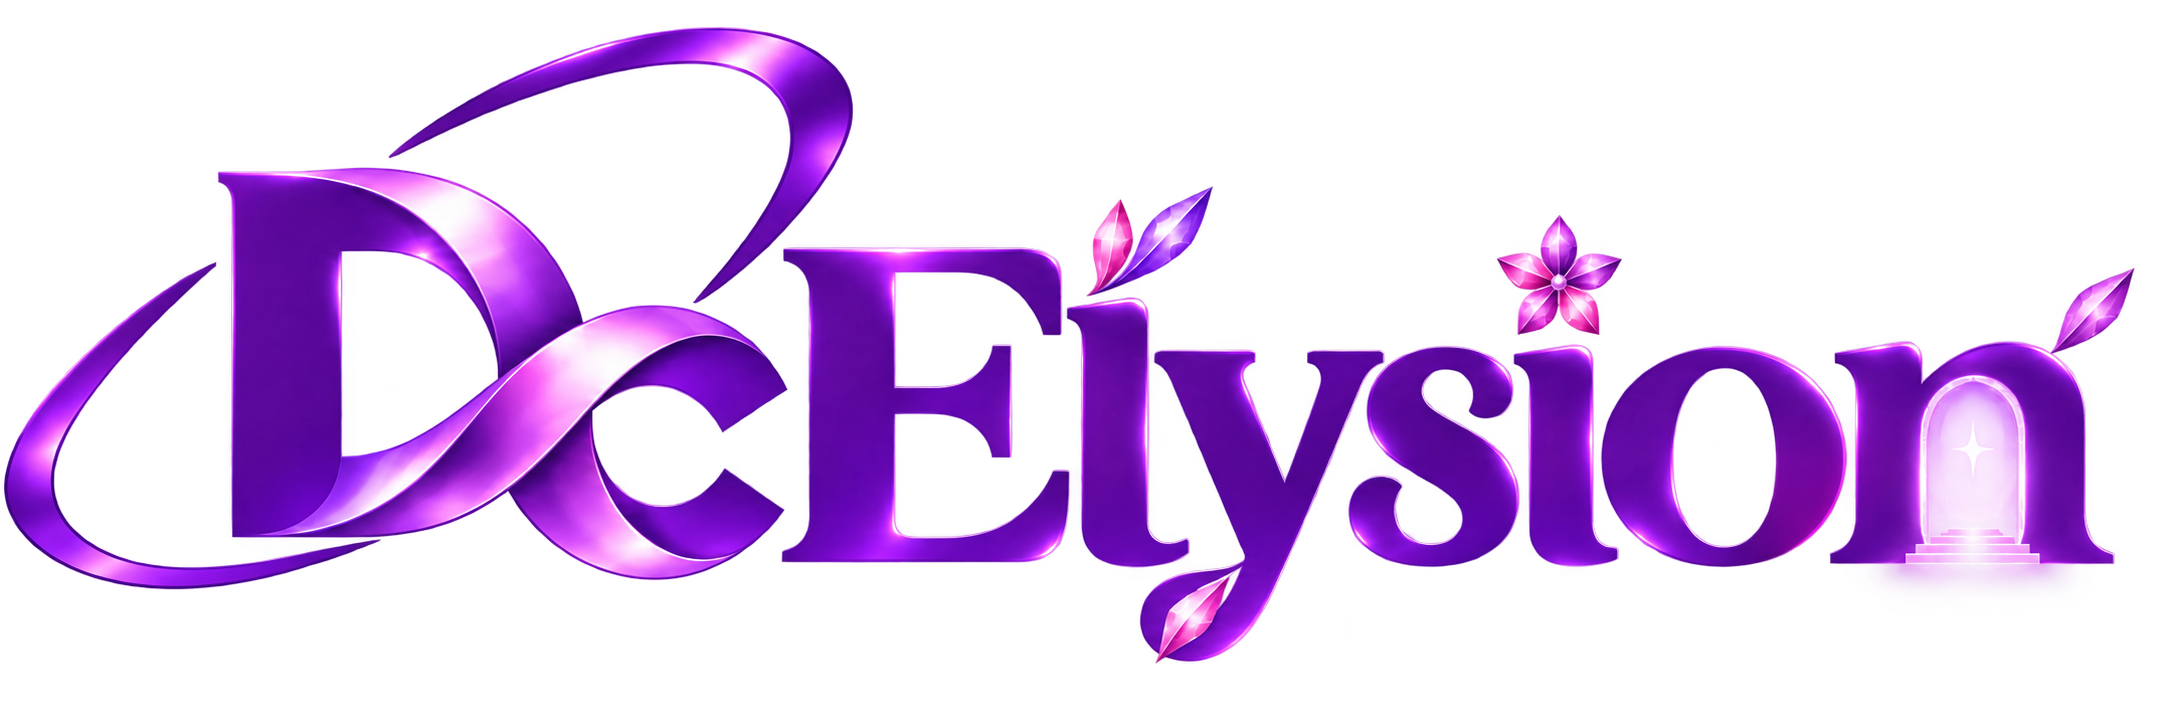
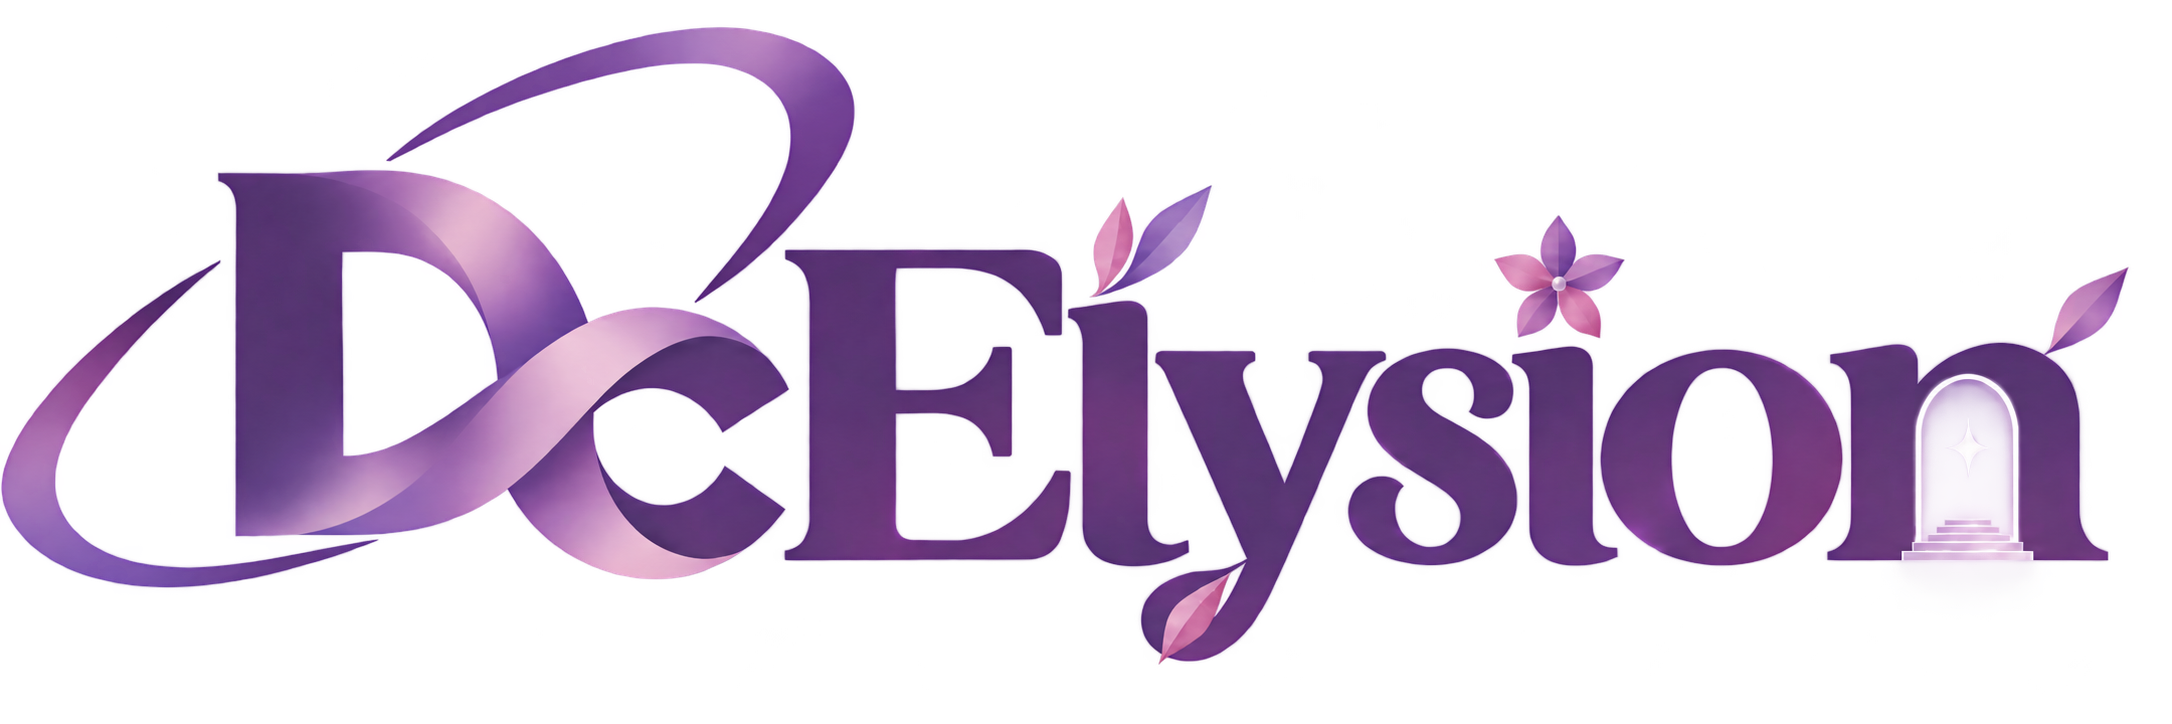
feat: 更新品牌字标与图标

Changed region(s): [[0.0, 0.0304, 0.9871, 0.9116]]

diff --git a/src/config/siteConfig.ts b/src/config/siteConfig.ts
@@ -88,12 +88,12 @@ export const siteConfig: SiteConfig = {
 	// 如果启用了OpenGraph图片功能，数组中需要包含png格式的favicon图标
 	favicon: [
 		{
-			src: "/favicon/dc-infinity-32.png",
+			src: "/favicon/dc-mark-v2-32.png",
 			sizes: "32x32",
 		},
 		{
 			// 图标文件路径
-			src: "/favicon/dc-infinity-64.png",
+			src: "/favicon/dc-mark-v2-64.png",
 			sizes: "64x64",
 			// 可选，指定主题 'light' | 'dark'
 			// theme: "light",
@@ -117,6 +117,7 @@ export const siteConfig: SiteConfig = {
 		logo: {
 			type: "image",
 			value: "/assets/brand/dcelysion-portal-v3.png",
+			valueDark: "/assets/brand/dcelysion-portal-v3-dark.png",
 			alt: "DcElysion",
 			wordmark: true,
 		},
